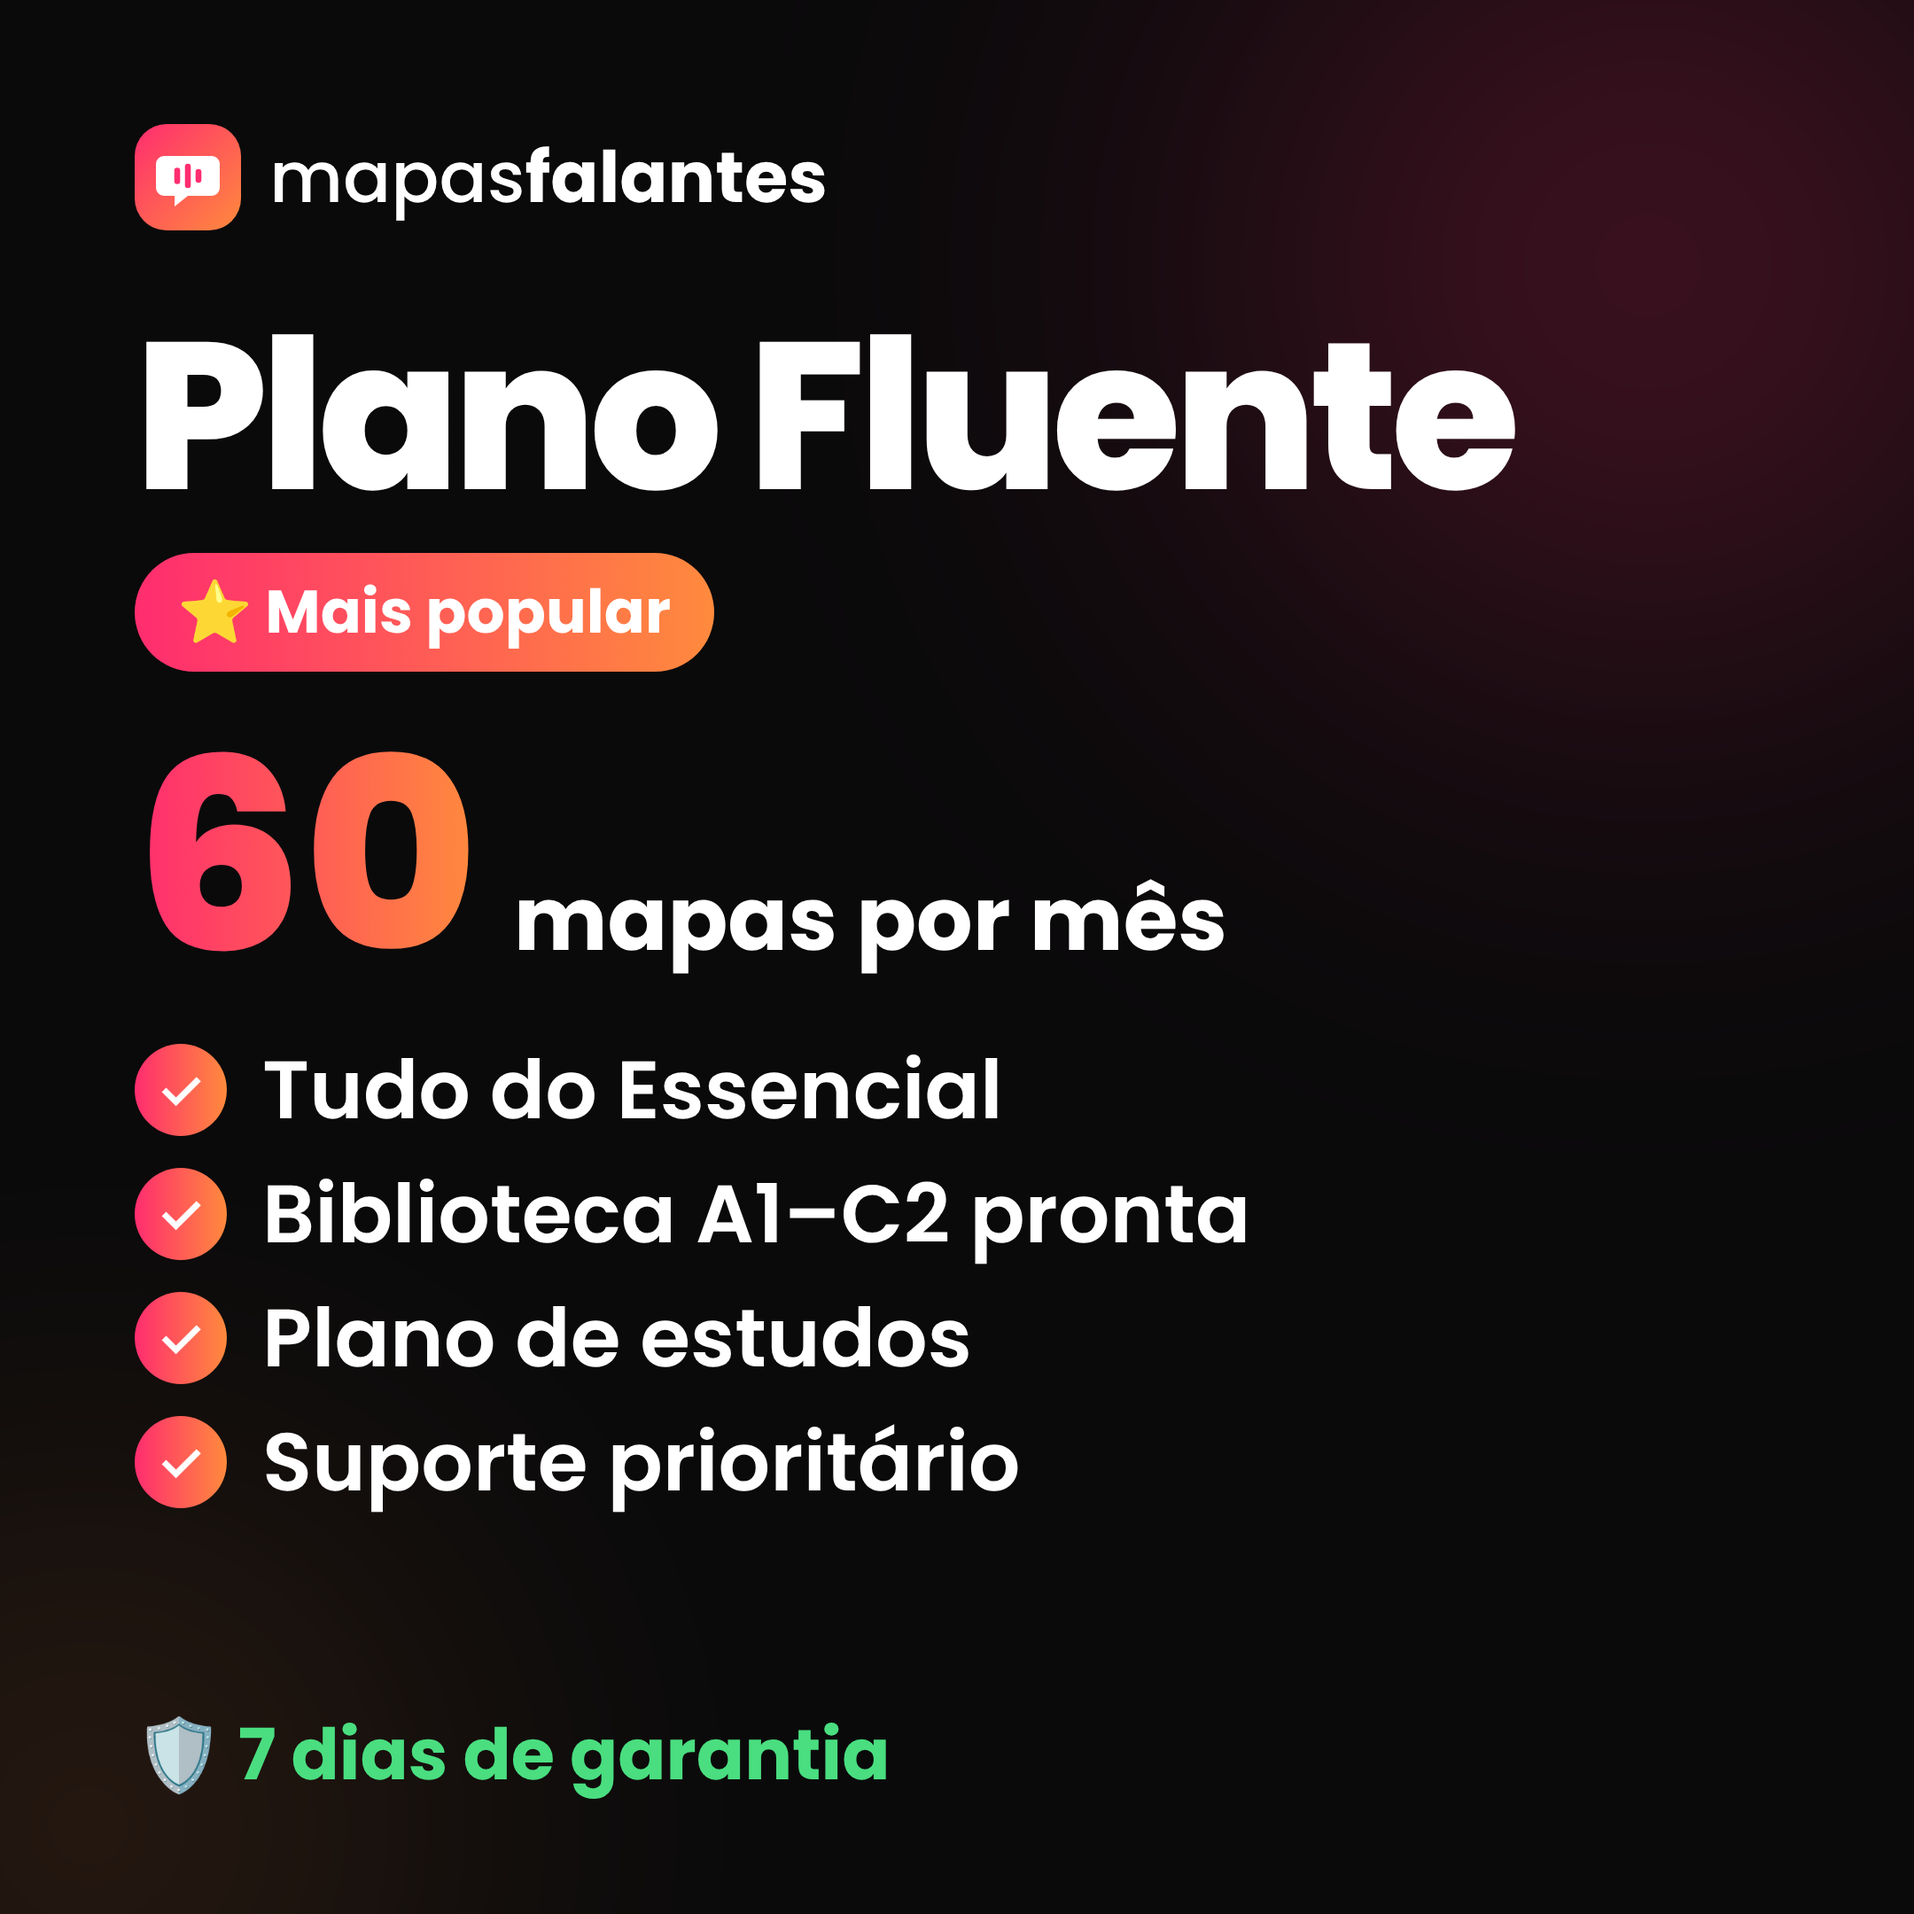
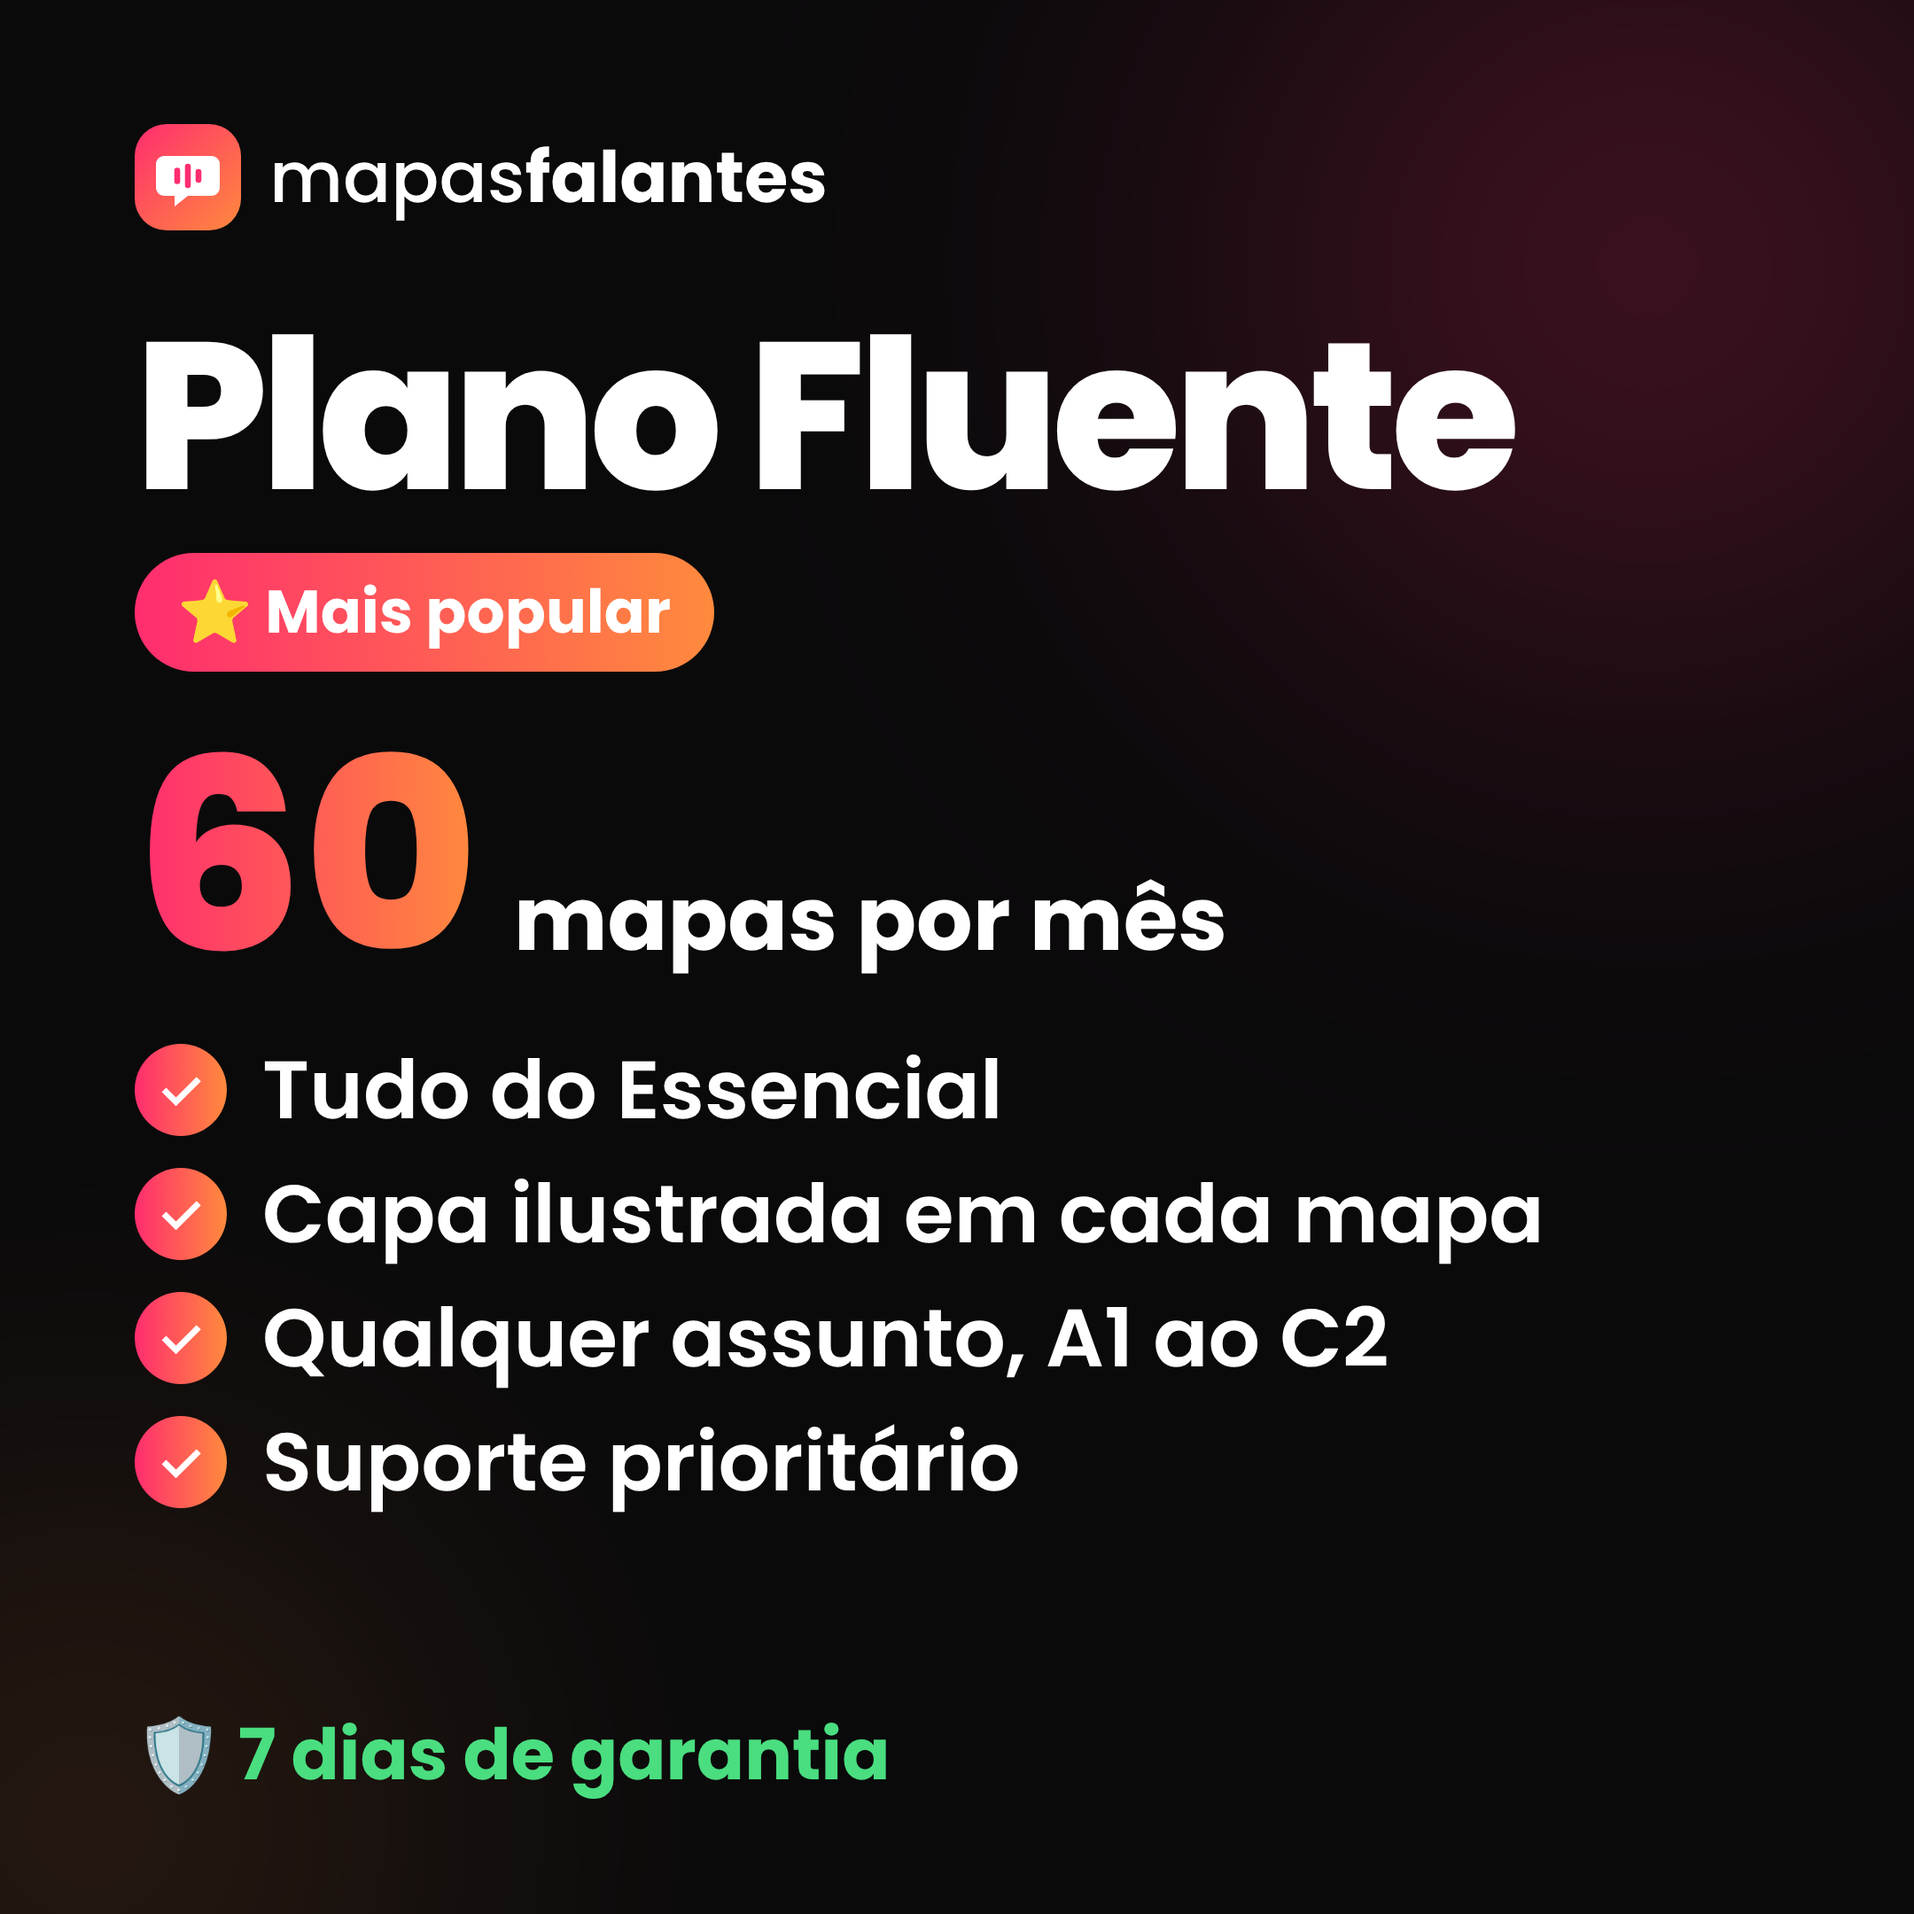
Plano Fluente: troca itens ainda não existentes; anota para próxima fase
Claude-Session: https://claude.ai/code/session_01L1CiTeDM6vumRAXk785LnN

Changed region(s): [[0.1241, 0.6204, 0.8065, 0.6514], [0.1241, 0.6824, 0.7444, 0.7134]]

diff --git a/04_APP/lib/plans.ts b/04_APP/lib/plans.ts
@@ -36,7 +36,7 @@ export const PLANS: Plan[] = [
     oldPrice: "R$99,90",
     credits: 60,
     highlight: true,
-    features: ["60 mapas por mês", "Tudo do Essencial", "Biblioteca A1–C2 pronta", "Plano de estudos pelo seu objetivo", "Suporte prioritário"],
+    features: ["60 mapas por mês", "Tudo do Essencial", "Capa ilustrada em cada mapa", "Qualquer assunto, do A1 ao C2", "Suporte prioritário"],
   },
   {
     id: "professor",

diff --git a/PROXIMOS_PASSOS.md b/PROXIMOS_PASSOS.md
@@ -57,7 +57,9 @@ O painel `/app/admin` já mostra contas, mapas por dia/período e lista de pesso
 
 ## Outras pendências
 - Trocar `ELEVENLABS_VOICE_ID` por uma voz americana (Vercel + Redeploy).
-- Plano Fluente promete "Biblioteca A1–C2" e "Plano de estudos" (landing + imagens de checkout) — **ainda não existem no app**: implementar ou trocar o texto.
+- **Próxima fase (melhorias do plano Fluente):** removidos do texto em out/2026 porque ainda não existem — criar e depois voltar a anunciar:
+  - **Biblioteca pronta A1–C2:** mapas já gerados por nível, acessíveis sem gastar crédito.
+  - **Plano de estudos pelo objetivo:** sequência de temas a partir das respostas do quiz (nível, objetivo, tempo/dia).
 - Testar reembolso na Kiwify (conta deve voltar ao grátis).
 - Domínio próprio → depois: Resend no lugar do Gmail, logo na tela de login do Google.
 - Ilustrações 3D na landing (aguardando exemplos).
